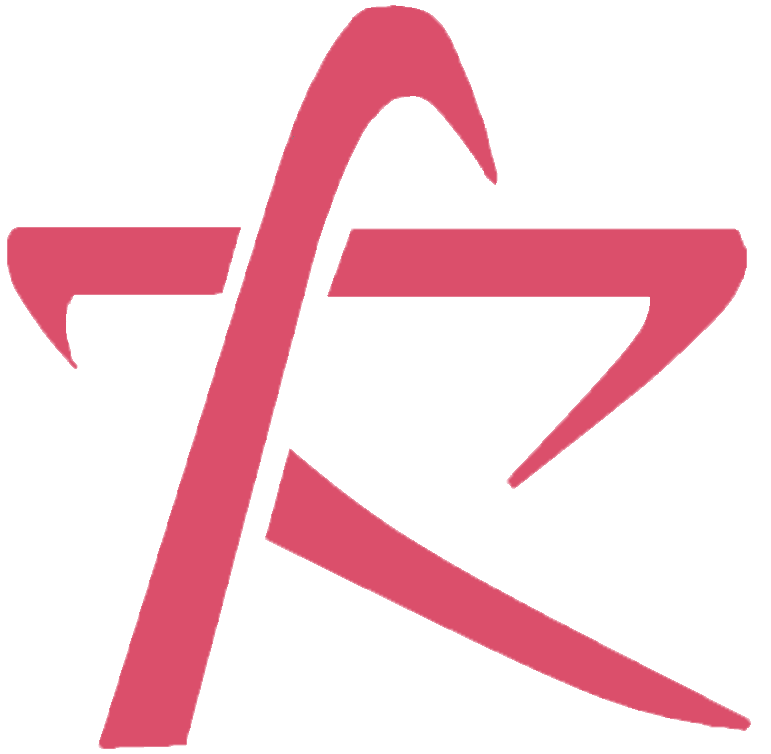
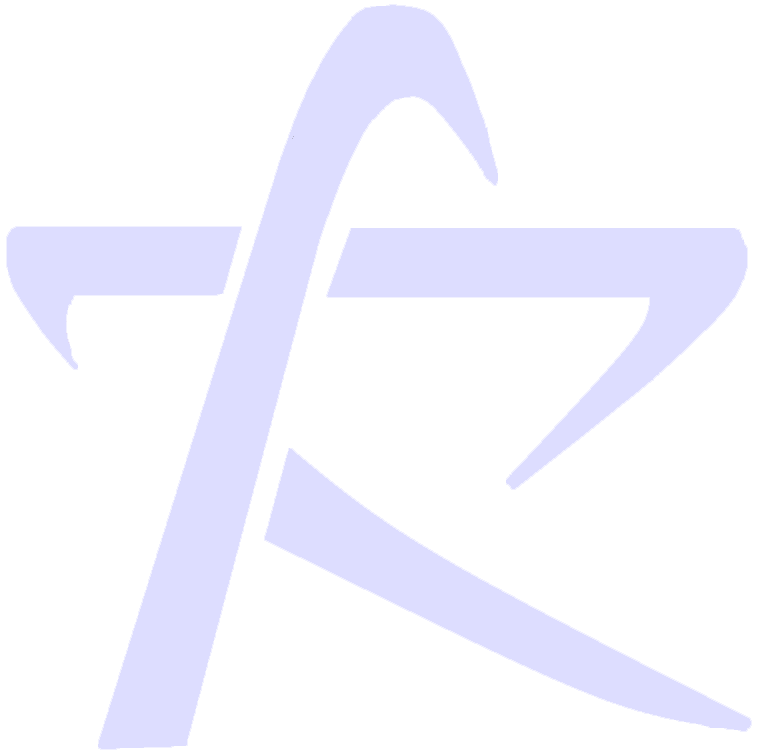
color change

Changed region(s): [[0.0, 0.0, 0.9961, 1.0]]

diff --git a/assets/css/MasterCSS.css b/assets/css/MasterCSS.css
@@ -1,5 +1,5 @@
 /* Main */
-body{padding:0;margin:0;color:white;background-color: #dfdfdf;font-family:SN;}
+body{padding:0;margin:0;color:black;background-color: #dfdfdf;font-family:SN;}
 a{text-decoration: none;color:inherit;}
 /* /Main */
 
@@ -16,7 +16,7 @@ a{text-decoration: none;color:inherit;}
 
 
 /* SideBanner */
-#sideBannerOutline{font-family: minimal;z-index: 999;text-align:center;position:fixed; width:400px; height:100vh; background-color:#dfdfdf;color:black;font-size:80px;}
+#sideBannerOutline{font-family: minimal;z-index: 999;text-align:center;position:fixed; width:400px; height:100vh; background-color:white;color:black;font-size:80px;}
 #sideBannerSizer{padding:20px;text-align:center;width:400px;height:100%;box-sizing: border-box;}
 
 #profileOutline{position: relative;width:360px;height:300px;font-size: 60px;}
@@ -25,7 +25,7 @@ a{text-decoration: none;color:inherit;}
 #navBox{position: absolute; top:350px;width:360px;height:400px;font-size:50px;text-align: left;padding-left:10px;}
 #nav{list-style: none;margin-top:20px;}
 #nav li{height: 55px;}
-#CategoryBox{font-family: Minimal;position: fixed;transition: 0.5s;font-size: 50px;text-align: center;left: 0;z-index:998;background-color: #bababa;width:410px;height:100vh;opacity: 0.8;}
+#CategoryBox{font-family: Minimal;position: fixed;transition: 0.5s;font-size: 50px;text-align: center;left: 0;z-index:998;background-color: #dfdfdf;width:410px;height:100vh;opacity: 0.8;}
 #CategorySizer{width:410px;box-sizing: border-box;padding-left:80px;padding-right:80px;opacity: 1.0;}
 #searchIcon{position: absolute;left:10px;top:11px;}
 #searchIcon img{width: 50px;}
@@ -40,7 +40,7 @@ a{text-decoration: none;color:inherit;}
 
 
 #mainBoxOutline{margin-left:400px;}
-#mainBoxOutrigger{background-color:#dfdfdf;text-align:center;color:black;padding:10px;box-sizing: border-box;width: 100%;height: 100%;}
+#mainBoxOutrigger{background-color:white;text-align:center;color:black;padding:10px;box-sizing: border-box;width: 100%;height: 100%;}
 #mainBoxSizer{padding:10px;margin-left: 150px;margin-right: 150px;}
 #mainCat{padding-bottom: 10px;border-bottom: 3px solid white;padding-left: 20px;margin-top: 70px;text-align: left;color:black;font-size: 70px;}
 #postBox{position: relative;top:20px;text-align: left;}
@@ -51,6 +51,6 @@ a{text-decoration: none;color:inherit;}
 #post h1{font-size:50px;}
 #post h2{font-weight:100;}
 
-pre{margin-left:30px;font-size:17px;background-color: #bababa;color:white;padding:20px;}
+pre{margin-left:30px;font-size:17px;background-color: #dfdfdf;color:white;padding:20px;}
 
 /*Home*/

diff --git a/assets/css/navCategory.css b/assets/css/navCategory.css
@@ -2,8 +2,8 @@
 
 /* Nav Animation */
 
-#nav li::after{bottom:55px;display: block;position:relative;background-color:#DC143C;opacity:0.7;width:100px;height: 5px;content: "";left:-10px;transition: 1s;}
-#nav span::after{bottom:50px;position:relative;display: block;background-color:#DC143C;opacity:0.7;width:10px;height: 55px;content:'';left:260px;transition: 1s;}
+#nav li::after{bottom:55px;display: block;position:relative;background-color:#DDDDFF;opacity:0.7;width:100px;height: 5px;content: "";left:-10px;transition: 1s;}
+#nav span::after{bottom:50px;position:relative;display: block;background-color:#DDDDFF;opacity:0.7;width:10px;height: 55px;content:'';left:260px;transition: 1s;}
 
 #nav li:hover:after{width:280px}
 #nav span:hover:after{width:90px; left:180px;}

diff --git a/_layouts/default.html b/_layouts/default.html
@@ -11,7 +11,7 @@
                 <div style="padding-bottom:30px;">
                     <h1>{{page.title}}</h1>
                 </div>
-                <div style="text-align:left;border-bottom:2px solid white;margin-bottom:100px;">
+                <div style="text-align:left;border-bottom:2px solid #dfdfdf;margin-bottom:100px;">
                     <h2>{{page.description}}</h2>
                 </div>
                 <div style="text-align:left;">

diff --git a/_posts/Coding/2019-09-19-computerThinking.md b/_posts/Coding/2019-09-19-computerThinking.md
@@ -6,111 +6,69 @@ title: "소프트웨어적 사유 -2"
 description: '20190919 소프트웨어적 사유 수업 노트정리'
 ---
 
-먼저 추상화에 대해 설명해야 겠다.
+<h5>6.데이터 모음(data collection)</h5>
 
-추상화란, 어떤 대상들이 가진 공통적인 특징을 찾아내고, 개별적인 요소들은 배제하는 방식의 사고과정이야.
 
-예를 들어, 우리가 어떤 자동차를 보고 '자동차'라고 인식했다고 생각해보자.
+컴퓨터적 사고의 여섯번째 단계는 데이터 모음(data collection)이야.
 
-어떻게 그게 자동차인 것을 알았을까?
+방대한 데이터를 컴퓨터에 어떻게 저장하고 검색하는지에 관한 단계지.
 
-바로, 우리는 이미 자동차에 대해 추상화가 된 상태이기 때문이야.
+우선 데이터 정리의 필요성을 느껴야 겠지?
 
-자동차를 표현하자면, 몸체, 4개의 바퀴 , 전조등 , 유리창만 있으면 우린 모두 자동차라고 인식하잖아?
+단순히 저장만 된 무질서한 데이터는 그저 쓰레기 더미일 뿐이야.
 
-문의 개수나 바퀴모양, 자동차의 색 같은 것들은 모두 부수적인 요소이기 때문에, 자동차 마다 다 다르다는 것을 우린 이미 알고있는거야.
+왜냐하면, 데이터는 다시 사용될 때 의미가 있는 거니까.
 
-이때 4개의 바퀴, 유리창 같은 것들을 General patterns 즉, 일반적인 패턴들이라고 하고
+그렇기에 우리는 어떻게 이 많은 데이터들을 효율적으로 저장할 수 있을까를 고민하게되지.
 
-바퀴모양, 자동차의 색 같은 부수적인 요소들을 Specific patterns 즉, 개별적인 특징들이라고 하지.
-
-추상화 과정은 바로 이런거야.
-
-우리가 어떤 문제를 해결하고자 할 때, 일반적인 생각들을 우선 도출해 내고, 문제에 도움을 주지 않는 개별적인 특징들은 일단 배제하고 보는거지.
-
-이렇게 패턴들을 찾아 문제의 모델을 만드는 것을 추상화 과정이라고 해.
-
-대표적인 추상화의 결과물이 바로, 우리가 알고있는 교통 표지판이나, 지하철 노선도 같은거야.
-
-사람은 정말 대단한 추상화능력을 가지고 있어.
-
-한번 시험해 보자.
-
-힌트 두개를 줄테니까, 내가 뭘 설명하는지 맞춰봐.
-
-힌트1.다리가 네개이다.  힌트2. 목이 길다.
-
-<br><br><br><br><br><br><br><br><br>
-
-당연히 정답은 기린이야.
-
-기린의 눈 색깔이나, 몸 패턴 같은 상세한 묘사를 하지 않아도, 단 두가지 중요한 정보만으로 우린 기린인걸 알아낼 수 있지.
-
+여기서 효율적이라는 말은 다시 찾기 쉽게 라는 말과 같아.
 <br>
 <br>
 <br>
-<br>
-<br>
+1.이진 검색 트리
 
-우리가 오늘 본격적으로 배워 볼 건, 바로 이런 추상화의 대표적인 예인 '알고리즘'에 대해 얘기해 볼거야.
+(추가예정)
 
-여행 계획을 세우는 알고리즘을 하나 짜볼게..
 
+<br><br>
+<h5>7.데이터 분석(data analysis)</h5>
+
+데이터 분석의 과정은,
 
 ~~~
-여행 일정 결정 -> 여행지 결정 -> 동반자 결정 -> 여행 경비 결정 -> 교통현 결정 -> 숙박지 결정
+실제상황 -> 실 데이터 추출 및 모음 ->
+데이터 가공 -> 모델과 알고리즘을 통한 데이터 분석 ->
+보고서 작성 -> 의사 결정 -> 실제 상황에 반영
 ~~~
 
-이 경우 각각의 결정은, 전체 여행과정의 하나 하나 '분해'과정이지.
+순서로 이루어진다.
 
-그리고 그 '분해'된 과정 하나 하나는 '여행지 결정'이라는 문장으로 추상화되지.
-<br>
-<br>
-<br>
-<br>
-또 하나 알고리즘을 세워보자.
-
-1부터 100까지의 자연수 중 5의 배수를 찾는 알고리즘을 세워보자.
-
-[pattern] 5의 배수는 5로 나누어 나머지가 0이다.
-
-즉, 1부터 100까지의 숫자를 보면서 나머지가 0인 경우만 골라내면 되는거야.
-
-<br>
-<br>
-<br>
-사실 이런 경우가 아니라도, 우린 일상생활 속에서도 알게 모르게 알고리즘을 짜고 있어.
-
-책장에서 책을 찾을 때도, 왼쪽에서 오른쪽으로 가면서 책을 찾는 알고리즘을 사용하지 않아?
-
-<br>
-<br>
-<br>
-이런 알고리즘을 표현하는 데에는 여러 방법이 있어.
-
-1.의사코드(pseudicide)
-
-아 물론 의사코드는 프로그래밍 언어는 아니야.
-
-의사:실제와 비슷한
-
-2.흐름도
-
-알지? (찡긋)
+<h5>8.모의 실험(simulation)</h5>
 
 
-그리고 알고리즘을 짤 때에는 몇가지 원칙들이 있어.
-<br>
-<br>
+현실적인 제약으로 실제로 구현이 어려운 경우 사용하는 방법이다.
 
-1.Dry run
 
-알고리즘을 펜과 종이로 구상하면서, 먼저 그려보는거야.
+<h5>9.자동화(automation) </h5>
 
-2.알고리즘이 충분히 단순한가?
+자동화는 추상화에 의해 촉발되는 폭발을 어디로 쏠 건지 결정하는 것이라고 비유돼.
 
-3.다양한 경우에 문제에 대해 답이 맞는가?
+추상화 -> 자동화  이과정을 컴퓨팅이라고 해.
 
-4.변수들의 개수가 작은가? 문제를 빨리 해결하는가?
+(이 파트는 내가 뭔 말인지 못알아 먹어서 개인 공부를 해봐야 할듯)
 
-5.충분히 분해되어 모듈화 되었는가?
+<h5>10.병렬화(parallelization) </h5>
+
+서로 간섭하지 않거나, 선후 관계가 없는 작업을 동시에 진행하는 것을 말해.
+
+<h5>11.패턴 일반화(pattern generalization) </h5>
+
+만들어진 패턴을 다른 대상에도 일반화 하여 적용하는 것을 말해.
+
+예를 들어 라면을 끓일 때,
+
+면과 스프를 넣고 끓인다.
+
+라는 패턴을 이미 만들었다면, 다른 라면에도 적용할 수 있지.
+
+이것을 패턴 일반화라고 해.

diff --git a/_posts/Impulse/2019-09-20-Writing.md b/_posts/Impulse/2019-09-20-Writing.md
@@ -1,0 +1,63 @@
+---
+layout: "default"
+Category: "Study"
+subCat: "Impulse"
+title: "성찰과 표현"
+description: '20190920 성찰과 표현 노트'
+---
+
+1.늦어서 못들었는데, (지각하지 말자) 아마 매트릭스 얘기하면서 문학적 상징 얘기 한 듯.
+
+재미는 있었겠는데 별로 중요하진 않은 내용인 것 같아.
+
+그리고 뭐 빨리고 있는 인간들의 모습이 자본주의 속에서 소비되는 인간들의 모습이라나
+
+솔찍히 이해는 안돼.
+
+또, 거울의 상징성인 허상 얘기하다가.....
+
+전체적으로 뭘 배운건 지 잘 정리가 안되네.
+
+
+<br><br><br>
+
+2.발상을 하는 법에 대해..
+
+단어 하나를 떠올리고 그 단어에 생각되는 단어들을 연결하는 것도 하나의 좋은 사유 방법일 것 같다.
+
+물론 이것이 상투적인 연결고리가 될 수도 있지만,
+
+연결을 어떻게 하냐에 다라 정말 멋진 문장이 나올 수도 있다.
+
+소설이나 시를 쓸 때는 좋은 연상일 것 같아.
+
+레포트로는 부적합해.
+
+근데 이건 너무 표현을 위한 표현 아닌가..
+
+실제로 우리가 나타내고자 하는 본질을 형식으로 나타내는 게 문학일 것 같은데,
+
+이 방법은 그저 형식을 위한 형식이잖아..
+
+
+
+3.현대 미학 강의 1강
+
+예술의 언어?
+
+기의라는 내용이 아니라 기표라는 형식 자체를 통해 표현된다고?
+
+눈으로 보는 것만 그대로 글을 쓰라고?
+
+흠..... 잘 이해 안돼.
+
+예전엔 자연이 아름다웠기에 단순히 모방했지만,
+
+이제는 우리가 아름답게 살지 않기 때문에 예술작품도 더이상 아름다운 가상을 표현하지 않는다.
+
+즉 현대 예술은 무너집으로써 존재한다..
+
+발터 베냐민?
+
+
+<a href = "https://prezi.com/user/oiwhl3szytaa/"> 프레지 링크</a>

diff --git a/_posts/Impulse/2019-09-20-WorldCitizen.md b/_posts/Impulse/2019-09-20-WorldCitizen.md
@@ -1,0 +1,7 @@
+---
+layout: "default"
+Category: "Study"
+subCat: "Impulse"
+title: "세계와 시민 공부노트"
+description: '20190920 세계와 시민 공부노트'
+---
